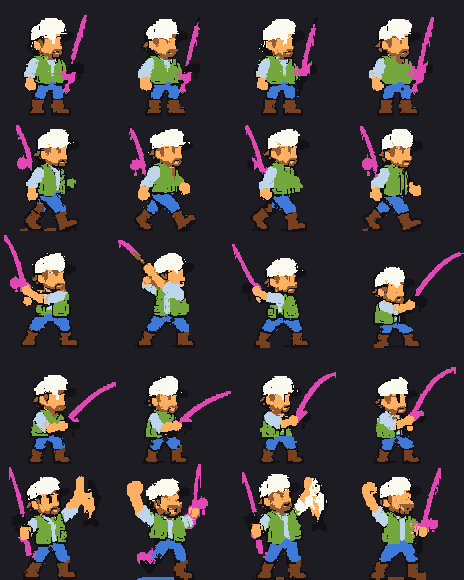
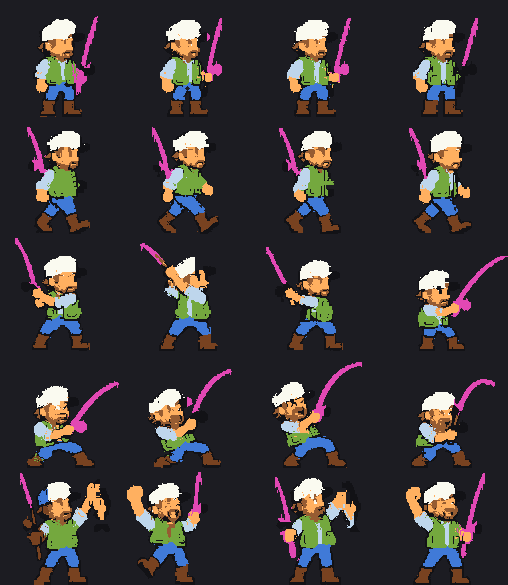
Take the new reel-in row, where he actually fights the fish
The sheet's reel row is redrawn: rod loaded, teeth gritted, bobber splashing.
The old one had him standing much as he does at idle, which read as nothing
happening during the one part of the game where something is.

Two things on the sheet needed rules, and both were caught by guards rather
than by eye.

Its four frames stand their boots at the same height and splash their
bobbers on the same row, and that band is 56% dark. A real border is only
about 78% dark when measured across the whole sheet, because the sheet is
wider than the table — there is a margin with the row labels in it — so the
bar was low enough to admit the band as a seventh row line. The run stopped
with "found 4 columns and 6 rows", which is the guard doing its job instead
of the slicer quietly cutting every reel frame in half. Borders are now
found twice: a lenient pass to locate the table, then a strict one measuring
only within it, where a real border is dark nearly all the way and anything
drawn inside a panel is not.

And in one celebrate frame he holds a fish up level with his ear. It is
pale, it reaches higher than his crown, it lies against his head, and at
working size it is joined to his sleeve and his cap as a single piece of
cream — so it answered every clause and came out as cap: 3644 pixels of it
against 1400-2200 in every other frame, and a dyed hat would have taken the
fish along with it. Nothing tested on the piece helps when the piece really
[…]

diff --git a/src/utils/anglerSprites.js b/src/utils/anglerSprites.js
@@ -2,7 +2,7 @@
 // scripts/anglerPixelSlice.mjs. Every frame sits in the same box with the feet anchored at
 // (feetX, feetY), so an action can swap without the figure hopping.
 //
-// He is cut at the resolution the artist drew him — the box is 232x232 — rather than averaged down
+// He is cut at the resolution the artist drew him — the box is 254x234 — rather than averaged down
 // onto a coarse grid, which an earlier pass of this did and which cost real detail: his eyes, the
 // vest pockets, the rod guides and the boot laces are all finer than any such grid. The geometry
 // here is all expressed against SPRITE_FRAME rather than in numbers of its own, so GameScene, which
@@ -14,22 +14,22 @@ import cast from '../assets/angler/cast.png';
 import reel from '../assets/angler/reel.png';
 import celebrate from '../assets/angler/celebrate.png';
 
-export const SPRITE_FRAME = { w: 232, h: 232, feetX: 99, feetY: 231 };
+export const SPRITE_FRAME = { w: 254, h: 234, feetX: 121, feetY: 233 };
 
 // The window on a frame that a still preview shows. The sheet draws him and his rod inside one
 // square, so unlike the last one there is no run of empty box to trim off — the still is the frame.
-export const STILL_WINDOW = { x: 0, y: 0, w: 232, h: 232 };
+export const STILL_WINDOW = { x: 0, y: 0, w: 254, h: 234 };
 
 // rodTip is where the line leaves the rod for that strip's held pose, in frame pixels, measured off
 // the rod in the part mask rather than guessed: the rod pixel furthest from his feet. Where the rod
 // runs out of the box the tip is where it leaves the frame, which is where the line has to start
 // for the two to meet.
 export const ANGLER_SPRITES = {
-  idle: { src: idle, frames: 4, rodTip: { x: 172, y: 30 } },
-  walk: { src: walk, frames: 4, rodTip: { x: 32, y: 18 } },
-  cast: { src: cast, frames: 4, rodTip: { x: 230, y: 41 } },
-  reel: { src: reel, frames: 4, rodTip: { x: 231, y: 68 } },
-  celebrate: { src: celebrate, frames: 4, rodTip: { x: 17, y: 6 } },
+  idle: { src: idle, frames: 4, rodTip: { x: 194, y: 32 } },
+  walk: { src: walk, frames: 4, rodTip: { x: 54, y: 20 } },
+  cast: { src: cast, frames: 4, rodTip: { x: 253, y: 43 } },
+  reel: { src: reel, frames: 4, rodTip: { x: 236, y: 61 } },
+  celebrate: { src: celebrate, frames: 4, rodTip: { x: 39, y: 9 } },
 };
 
 // What the angler is doing in each phase: which strip, how many frames to step through, and

diff --git a/CLAUDE.md b/CLAUDE.md
@@ -104,10 +104,11 @@ Mobile gets fixed bottom nav with safe-area padding, single-column layouts, and 
   - **Slicing** (`scripts/anglerPixelSlice.mjs`). The panel grid is found as the rows and columns that are mostly dark, and each cell is cut **at the resolution the artist drew at** — nothing is averaged down. An earlier pass did average it down, onto a lattice it went to some trouble to find, on the theory that this was a small pixel-art character delivered as a large soft render of itself. That theory was wrong and the measurement behind it was bad, which is the part worth keeping: within-block colour variance falls monotonically as the block shrinks — at one pixel per block it is zero — so "the period that minimises variance" has no minimum to find and simply reports the bottom of its search range, which had been set from a coarse guess of eight. It dutifully answered about eight and looked plausible. Two checks say otherwise. Scoring periods by how much more the colour changes *on* the candidate lattice lines than between them, which does have a real maximum, finds no winner here at all — the best contrast is about 1.4 and it lands on 8.2, 9.9 or 10.8 depending on the axis. And flattening a cell onto the "detected" lattice beside the cell itself is plainly worse: his eyes, the vest pockets, the rod guides and the boot laces are all finer than any such block. So he is simply drawn finer than that, in a style that reads as pixel art, and averaging him was throwing away real detail and is what made him chunky on the stage. Rows are IDLE, WALK, CAST, REEL IN, CELEBRATE, four frames each — **there is no HURT row**, so a lost fish returns him to idle.
   - **Cutting him out is the hard part, and the trap is his jeans**: they are (38,99,147) against a (36,146,189) sky, blue both, and every rule that tried to separate them on blueness or on darkness failed on some pose — the flood walked in between his boots and hollowed out both legs in the walk and cast rows. So the sky is not flooded for at all: it is one flat colour, over a million pixels within a few steps of it, read off each panel's own border ring and matched outright wherever it lies. That also settles the sky *he has closed around* — in a wide stance the gap between his knees is sealed at the bottom by his own shadow, and a flood from the border leaves a bright blue puddle standing there. The shadow and the softened blend around every keyline are then taken by a flood outward from that sky: red-starved dark (the outline, the shadow) costs nothing to cross, since the sky and the jeans both sit at about r=37 and nothing of his is dark in red there, while the blend is rationed to `BLEND_REACH` of 3 — enough for a pixel or two of softening, and far short of crossing an eight-pixel keyline into the denim behind it. The jeans answer no to every clause, in every pose, so they are not merely hard to reach but unfloodable.
   - **The drawn line and its bobber go**, the game drawing its own from the rod tip: a drawn line is the artist's white, one pixel wide, running straight for six or more, and nothing on him does that — the longest straight run the shirt, the guides or the reel makes is three. Cutting it orphans the bobber and `keepFigure` takes it from there. That keeps the largest **eight-connected** piece, eight because this artist steps a silhouette across a pixel at a time and a leg can hang off a hip by one diagonal; four-connectivity called that a separate object and threw both legs away in half the cast and celebrate frames. It is meant to drop the odd orphan of a few pixels, so anything over ten is reported as `came off as detached` — that is the failure this step causes, not one it fixes, and it should print nothing.
-  - Frames are hung on the **feet**, not the cell, because the artist did not place him at the same height in every panel and a character who bobs a pixel between frames reads as a glitch. They land in one shared box, 232x232 with the feet at (99, 231), recorded in `strips.json`; `SPRITE_FRAME` in `anglerSprites.js` must match it, and everything on the stage is expressed against `SPRITE_FRAME` so changing the art's resolution moves nothing.
+  - Frames are hung on the **feet**, not the cell, because the artist did not place him at the same height in every panel and a character who bobs a pixel between frames reads as a glitch. They land in one shared box, 254x234 with the feet at (121, 233), recorded in `strips.json`; `SPRITE_FRAME` in `anglerSprites.js` must match it, and everything on the stage is expressed against `SPRITE_FRAME` so changing the art's resolution moves nothing.
   - **Part masks** (`scripts/anglerPixelMasks.mjs` → `assets/angler/masks/*.png`, red channel, plus a preview and `paint.json`, which carries each part's dye base and his own skin ramp). Colour narrows a pixel and position settles it — his face is the patch of skin with a beard against it, his boots are what is under his trouser hem, and that hem comes off the **trousers** rather than off everything blue, because his reel is blue too and hangs at chest height (read every blue pixel as trouser and the reel sets a hem of its own in the columns it occupies, and a red boot smears red across the middle of him). His cap is found by **colour**: this sheet draws a white crown, a green panel and a navy brim, none of which is a colour a face is. A different sheet drew him in a bucket hat the same tan as the skin under it and there the hat had to be found by shape, as the part of the head patch above its widest row; that rule is not kept as a fallback, because on this sheet it takes the top of his forehead. What colour cannot do is tell the crown from his shirt or the brim from his jeans, so a piece counts as cap only if it lies against his head and reaches no lower than his chin.
   - **The rules run at working size, not at full size.** Every one of them is about shape at the scale of the drawing — a rod is thin, a beard is not; a garment is one piece and a stray is a quarter of one — and at full size the art stops cooperating: the hue regions fragment, because the artist draws shading *inside* a beard and a keyline between every two things, and those internal lines are pixels thick. Asked there, a beard is not one stout patch of brown but a dozen thin ones and it comes out as rod; widen the reach so a cap can find the head across its own outline and the rod, passing his ear, finds it too. Both of those were chased for a while before the better answer appeared: **classify where the classification is stable and carry the answer across**. Each frame is boxed down to about thirty pixels tall, the rules run there exactly as they were verified, and the labels are expanded back — a label map upsamples honestly, having no colours to interpolate. Expanded alone its edges are square in steps of a working pixel, so a last pass **snaps them back to the art**: a pixel whose colour disagrees with the label it inherited takes the nearest label its colour does fit, which can only move a boundary, only by a working pixel, and only onto a part this pose already has.
   - Two rules earn their keep at working size. The **rod** is what an opening of the silhouette loses, but in the wind-up frame of the cast he holds it back along his own arm and the two together are as wide as an arm, so the opening hands it back and that one frame came out with no rod at all. What is still true of it there is the rest of what a rod is — a long piece of brown with no core to it — so the remainder of each brown piece, once his beard and boots are taken out, is tested for that. And the **beard is bounded by the head it grows on**: in that same frame the rod passes his chin and the two are one piece of brown, so no test on the piece can separate them. Brown touching his face counts as hair only within a head's reach of it, and whatever runs on past that is left for the rod to claim. Runs shorter than five working pixels are not a rod either, which keeps the thin dark fin of the fish he holds up from coming out flecked in rod colour.
+  - Two more rules came off the sheet that redrew the reel-in row. Its four frames stand their boots at the same height and splash their bobbers on the same row, and that band is 56% dark — enough to be read as a **seventh row border** when a border is measured across the whole sheet, where a real one is only about 78% dark because the sheet is wider than the table (there is a margin with the row labels in it). So borders are found twice: a lenient pass locates the table, and a strict one measures only *within* it, where a real border is dark almost all the way and nothing drawn inside a panel is. The guard that stopped the run — "found 4 columns and 6 rows" — is the thing that made this a five-minute problem rather than a silently halved reel row. And in one celebrate frame he holds a fish up level with his ear: it is pale, it reaches higher than his crown, and at working size it is joined to his sleeve and his cap as one piece of cream, so it came out as **cap** — twice as much cap as any other frame, and a dyed hat would have taken the fish with it. No test on the piece can help when the piece is genuinely part cap, so the cap is *clipped* to the width of the head it is worn on.
   - **A skin tone is still not a dye.** A dye keeps only brightness and rebuilds the colour, which flattens a face. `utils/skinRamps.json` survives from the previous artist's SKIN TONES row — five separate *heads*, because he did not tint one either — and `shiftPixel` moves a pixel by the step between its band in one ramp and the same band in the other, so the modelling arrives intact. Hair and the beard keep a dye, with the two corrections a drawing needs and gear does not: a highlight lightens *toward white* rather than multiplying past it, and `dyeDrawn` pulls the drawing's contrast in toward its middle first, because hair is drawn dark and carrying all of that onto a pale target is what made blond read as olive.
   - `paletteFor(look)` is the pure look → dye targets the painter and its tests share; `DEFAULT_LOOK` is the art exactly as drawn, so the stock strips show unpainted, and where there is no canvas (jsdom) they show anyway with previews carrying `data-painted="no"`. Skin tone and hair colour are free; hats, shirts, vests, rods, boots and jeans are bought once (`purchaseApparel`) and worn via `saveLook`, which re-validates against what is owned — **every wardrobe key is stable across art swaps**, so a key whose drawing changed is repointed and relabelled rather than retired and nobody's purchase is orphaned. A new item is a colour in `WARDROBE`, not code or art. Presence carries `look` so the crew wear theirs.
   - **Check a cosmetic painted, on all twenty frames, before believing it** — and note that the tests cannot do it for you: jsdom has no canvas, so every test through the painter takes the fallback and sees nothing. `anglerSprites.test.js` therefore checks the three descriptions of this art off the files themselves — that each strip is `frames x SPRITE_FRAME` on disk, that each mask covers its strip pixel for pixel, and that every phase names a strip and stays inside its frame count. That is not hypothetical: the strips were once re-sliced to a smaller box and the masks left behind at the old one, and the whole suite went on passing while the painter walked a strip and a mask of different widths together by index.
